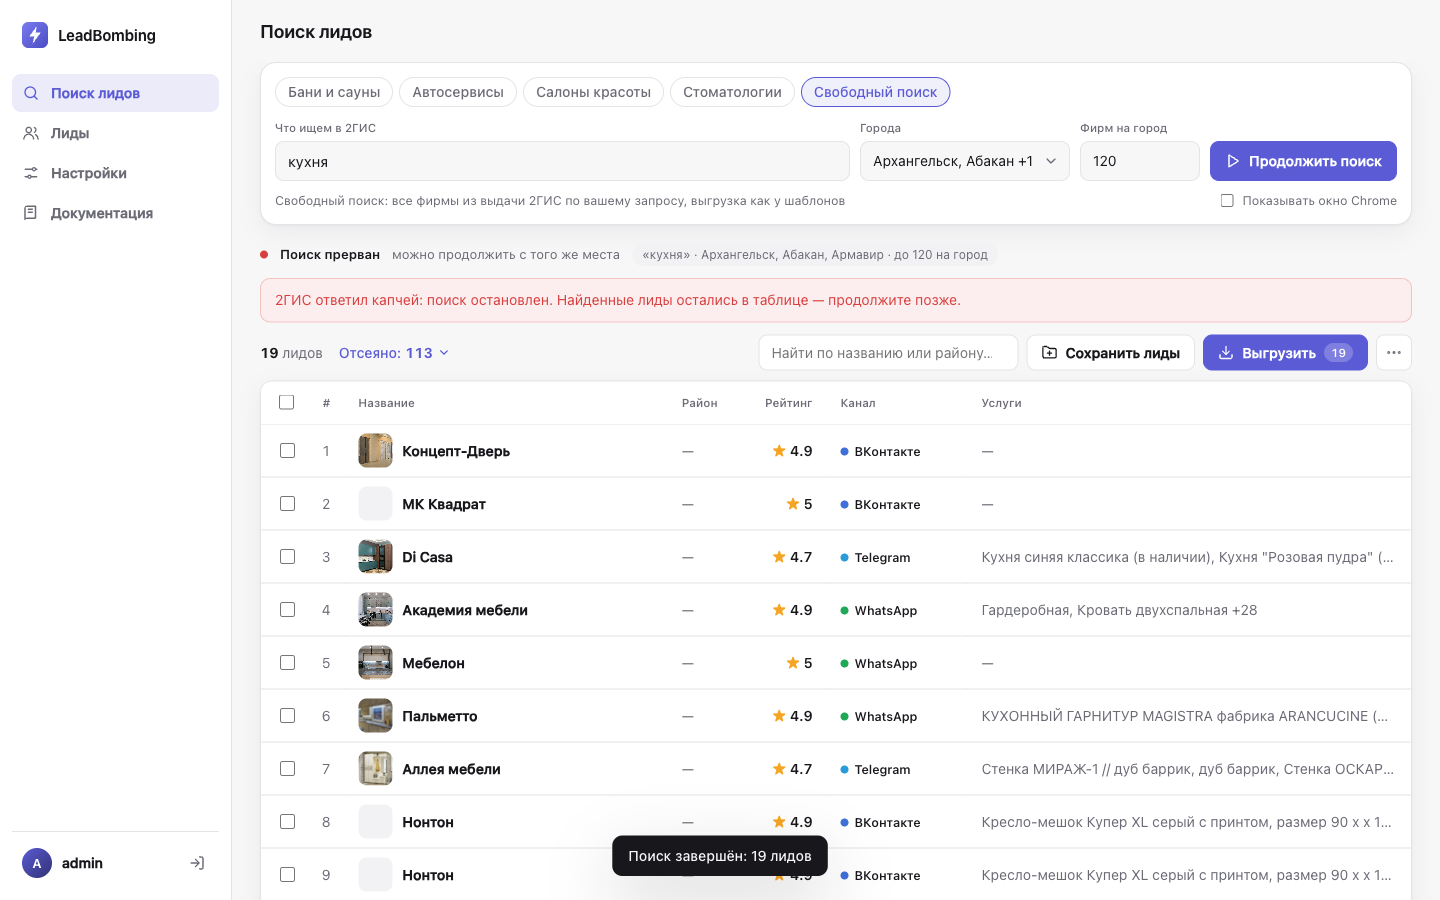
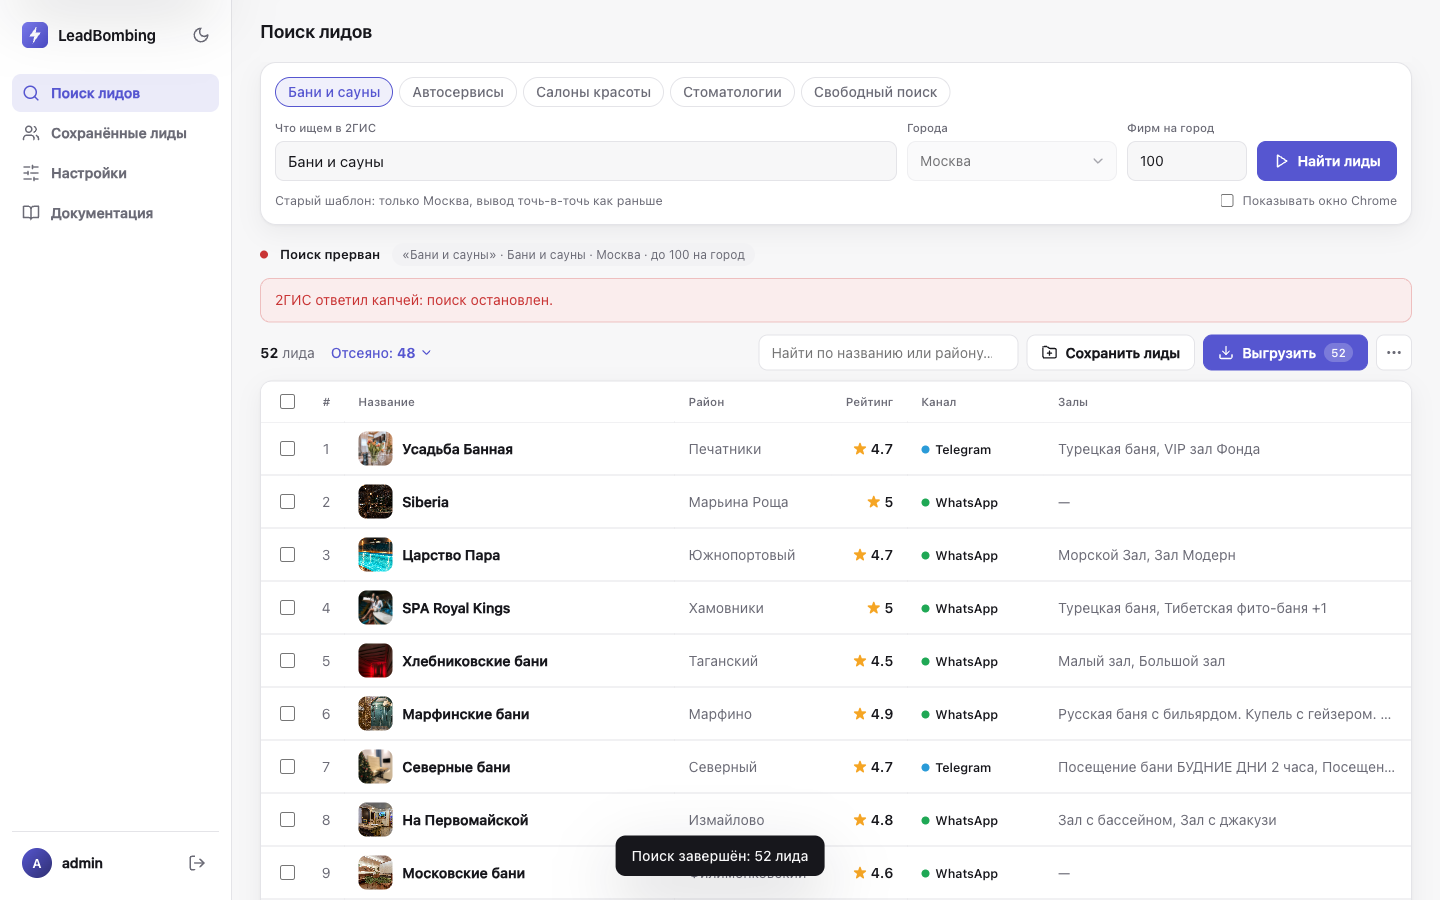
fix(ui): contrast of danger and accent
- Light theme: --danger #d93f3f → #c93434, --accent #5b5bd6 → #5656d0,
  so red text, links and chips reach 4.5:1.
- Dark theme: --danger text #f06060 on dark surfaces; buttons with white
  text use new fill tokens (--accent-fill #5b5bd6 / hover #6262de,
  --danger-fill #c93434), 4.9:1 and up.
- The Impeccable detector reports no low-contrast text.

diff --git a/leadbombing/web/static/app/app.css b/leadbombing/web/static/app/app.css
@@ -5,10 +5,15 @@
   --line: #e4e4e8;
   --text: #17171c;
   --muted: #6b6b76;
-  --accent: #5b5bd6;
+  --accent: #5656d0;
   --accent-hover: #4b4bc4;
   --on-accent: #ffffff;
-  --danger: #d93f3f;
+  /* Fills under white text (primary and danger buttons): ≥ 4.5:1 in both themes */
+  --accent-fill: var(--accent);
+  --accent-fill-hover: var(--accent-hover);
+  --danger: #c93434;
+  --danger-fill: #c93434;
+  --on-danger: #ffffff;
   --ok: #1f9d55;
   --wa: #1fa855;
   --tg: #2a9bd8;
@@ -35,6 +40,9 @@
     --muted: #8e8e99;
     --accent: #7c7cf0;
     --accent-hover: #8d8df5;
+    --accent-fill: #5b5bd6;
+    --accent-fill-hover: #6262de;
+    --danger: #f06060;
     --owner: #e3b341;
     --st-client: #3fbf74;
     --st-lost: #f06060;
@@ -54,6 +62,9 @@
   --muted: #8e8e99;
   --accent: #7c7cf0;
   --accent-hover: #8d8df5;
+  --accent-fill: #5b5bd6;
+  --accent-fill-hover: #6262de;
+  --danger: #f06060;
   --owner: #e3b341;
   --st-client: #3fbf74;
   --st-lost: #f06060;
@@ -145,9 +156,9 @@ code { font: 12px ui-monospace, SFMono-Regular, Menlo, monospace; background: va
 .btn:hover:not(:disabled) { background: var(--surface-2); }
 .btn:active:not(:disabled) { transform: translateY(1px); }
 .btn:disabled { opacity: .45; cursor: not-allowed; }
-.btn.primary { background: var(--accent); border-color: var(--accent); color: var(--on-accent); }
-.btn.primary:hover:not(:disabled) { background: var(--accent-hover); }
-.btn.danger { background: var(--danger); border-color: var(--danger); color: #fff; }
+.btn.primary { background: var(--accent-fill); border-color: var(--accent-fill); color: var(--on-accent); }
+.btn.primary:hover:not(:disabled) { background: var(--accent-fill-hover); border-color: var(--accent-fill-hover); }
+.btn.danger { background: var(--danger-fill); border-color: var(--danger-fill); color: var(--on-danger); }
 .btn.ghost { background: transparent; border-color: transparent; color: var(--muted); }
 .btn.ghost:hover:not(:disabled) { color: var(--text); background: var(--surface-2); }
 .badge { font-size: 11.5px; padding: 1px 7px; border-radius: 999px; background: rgba(255, 255, 255, .22); font-variant-numeric: tabular-nums; }

diff --git a/docs/UX-AUDIT.md b/docs/UX-AUDIT.md
@@ -174,6 +174,9 @@
 контраст при неизменных цветах. После polish: `prefers-reduced-motion`, skip link, стрелки в radiogroup, даты через
 `Intl`, `tel:`/`mailto:` без новой вкладки, зоны нажатия чекбоксов ≥ 32 px.
 
-Не сделано (вне рамок, нужно согласие): контраст `--danger` в тёмной теме (4,0:1), белый на `--danger` (4,4:1), белый
-на тёмном `--accent` (3,5:1), текст бейджей статуса (3,4–3,6:1); предупреждение о несохранённом комментарии; 404 на фото
+Контраст (по согласию владельца): `--danger` светлой темы #d93f3f → #c93434 (4,9:1 на фоне, белый на нём 5,2:1),
+в тёмной теме текст `--danger` #f06060 (5,6:1); `--accent` светлой темы #5b5bd6 → #5656d0; заливки кнопок под белым
+текстом — `--accent-fill` / `--danger-fill` (тёмная primary 5,4:1, hover 4,9:1). Детектор Impeccable: low-contrast нет.
+
+Не сделано (вне рамок): текст бейджей статуса (3,4–3,6:1); предупреждение о несохранённом комментарии; 404 на фото
 героя (бэкенд); шрифт Inter не подключён.
